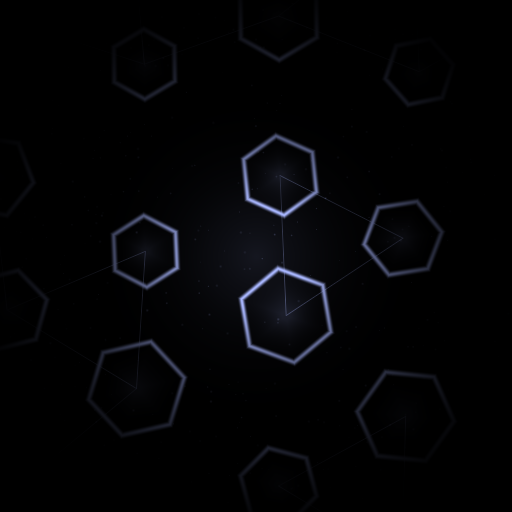
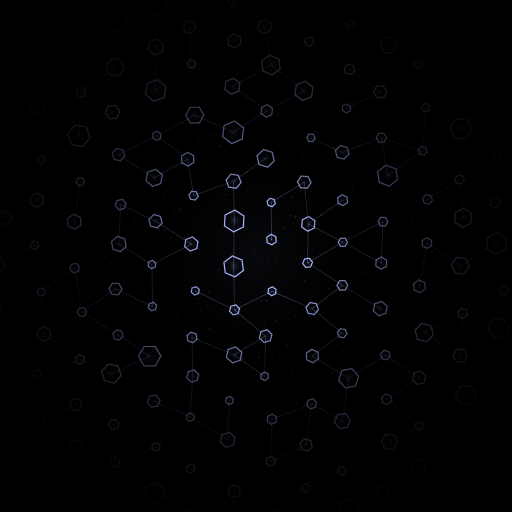
Particle textures, third pass: a population rather than slabs
Five plates across the texture is a handful of slabs at particle size. Faig
called them megaliths and he was right. Twenty across for casting now, thirty
for Corprus, with plate size drawn from three buckets so the field is not
one-calibre - a swarm has to look like a population, not a print. Rim down to a
pixel of falloff, the central core nearly gone, twice the motes.

Recorded honestly in the report: this narrows a distinction Canon Part 9 makes
on purpose. It separates Zenaric casting from Corprus by density - sparse
structure against dense swarm - and with casting now fine-grained they differ
by density alone. If Corprus needs to stay unmistakable, broken plates are the
cheapest answer: half its hexagons missing a side, which healthy casting never
shows. Same material, damaged. Not implemented.

diff --git a/tools/scripts/make_vfx.py b/tools/scripts/make_vfx.py
@@ -97,10 +97,13 @@ def hex_field(size, cell, dense, seed):
             cy = r * dy + (dy * 0.5 if c % 2 else 0.0)
             cy += rng.uniform(-cell * 0.2, cell * 0.2)
             if -cell < cx < size + cell and -cell < cy < size + cell:
-                centres.append((cx, cy, rng.uniform(0.32, 0.46) * cell,
+                # Wide size variation. A field of one-size plates reads as a
+                # pattern; nanites are a population, not a print.
+                scale = rng.choice([0.16, 0.24, 0.34], p=[0.45, 0.35, 0.20])
+                centres.append((cx, cy, scale * cell * rng.uniform(0.85, 1.15),
                                 rng.uniform(0.0, np.pi / 3)))
 
-    edge = max(size / 256.0, 1.0) * (1.6 if dense else 2.2)
+    edge = max(size / 512.0, 1.0) * (1.1 if dense else 1.4)
     for cx, cy, radius, angle in centres:
         d = _hex_distance(x, y, cx, cy, angle)
         rim = np.clip(1.0 - np.abs(d - radius) / edge, 0.0, 1.0)
@@ -125,7 +128,7 @@ def hex_field(size, cell, dense, seed):
                             / (dist + 1e-3), 0.0, 1.0)
             threads = np.maximum(threads, line * (0.30 + 0.25 * along))
 
-    for _ in range(int(size * (1.6 if dense else 0.9))):
+    for _ in range(int(size * (3.0 if dense else 1.8))):
         mx, my = rng.uniform(0, size, 2)
         rad = rng.uniform(0.6, 1.8) * max(size / 512.0, 1.0)
         d = np.hypot(x - mx, y - my)
@@ -170,14 +173,19 @@ def build(src_path, dense, size=512):
     colour = src[..., :3][bright].mean(axis=0)
     colour = colour / max(colour.max(), 1.0) * 255.0
 
-    cell = size / 10.0 if dense else size / 5.5
+    # Small and many. The first pass put five plates across the texture, which
+    # at particle size is a handful of slabs - Faig's word was megaliths, and he
+    # was right. A swarm has to be a population: roughly twenty across for
+    # casting and thirty for Corprus, so a single plate lands on a few pixels of
+    # screen and the eye reads the cloud rather than the pieces.
+    cell = size / 30.0 if dense else size / 20.0
     field = hex_field(size, cell, dense, seed=7)
 
     # A faint core keeps the particle from disappearing at distance, where the
     # grid is below a pixel and would otherwise flicker out.
     yy, xx = np.mgrid[0:size, 0:size].astype(np.float32)
     r = np.sqrt((xx - size / 2) ** 2 + (yy - size / 2) ** 2) / (size / 2)
-    core = np.clip(1.0 - r, 0.0, 1.0) ** 3 * (0.35 if dense else 0.22)
+    core = np.clip(1.0 - r, 0.0, 1.0) ** 4 * (0.18 if dense else 0.10)
 
     alpha = np.clip(field * (1.0 - core) + core, 0.0, 1.0)
     # Vignette: a square-edged particle shows its own quad against the sky.

diff --git a/tools/reports/vfx.md b/tools/reports/vfx.md
@@ -82,6 +82,26 @@ were blobs, and a blob does not look manufactured. Rebuilt around three ideas:
 * **Motes.** Sub-pixel specks in the gaps at low alpha, so the empty space does
   not look deliberate.
 
+## Third pass: scale
+
+The plates were five across the texture, which at particle size is a handful of
+slabs. Faig's word was megaliths and it was accurate. Now twenty across for
+casting and thirty for Corprus, with the size drawn from three buckets - 45% of
+plates small, 35% medium, 20% large - because a field of one-size plates reads
+as a print and a swarm has to look like a population.
+
+The rim is down to a pixel of falloff, the central core is nearly gone, and
+there are twice as many motes.
+
+**This narrows a distinction Part 9 makes deliberately.** Canon separates the
+Zenaric cast from Corprus by density: sparse structure for casting, dense swarm
+reserved for Corprus. With casting now fine-grained, the two differ by density
+alone - 20 across against 30 - and both read as a swarm.
+
+If Corprus needs to stay unmistakable, the cheapest way is **broken plates**:
+half its hexagons missing a side or two, which healthy casting never shows. Same
+material, damaged. Not implemented; it is one branch in the generator.
+
 ## Still open
 
 Whether to ship at all, given that it overrides Vurt's. And the grain shader,
